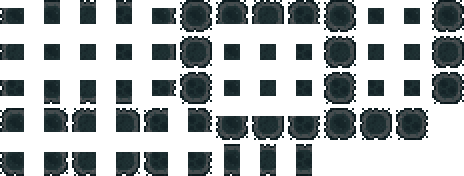
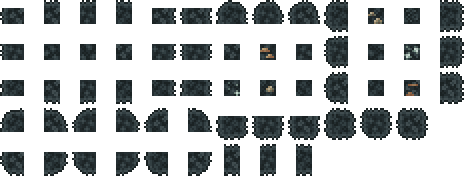
WORLD GEN

diff --git a/Content/MycorrhizaBiome/MycorrhizaEvilBiomeGenerationPass.cs b/Content/MycorrhizaBiome/MycorrhizaEvilBiomeGenerationPass.cs
@@ -1,0 +1,70 @@
+using AltLibrary.Core.Generation;
+using AltLibrary.Common.Systems;
+using Terraria;
+using Terraria.ID;
+using Terraria.ModLoader;
+using Terraria.WorldBuilding;
+using Mycorrhiza.Content.MycorrhizaBiome.Plants;
+using Mycorrhiza.Content.MycorrhizaBiome.BiomeTiles;
+using Mycorrhiza.Content.MycorrhizaBiome.BiomeTiles.Desert;
+using System;
+
+namespace Mycorrhiza.Content.MycorrhizaBiome
+{
+    public class MycorrhizaEvilBiomeGenerationPass : EvilBiomeGenerationPass
+    {
+        public override string ProgressMessage => "Spreading mold...";
+
+        public override void GenerateEvil(int evilBiomePosition, int evilBiomePositionWestBound, int evilBiomePositionEastBound)
+        {
+            double depth = Main.worldSurface + 40.0;
+
+            for (int x = evilBiomePositionWestBound; x < evilBiomePositionEastBound; x++)
+            {
+                depth += WorldGen.genRand.Next(-2, 3);
+                depth = Math.Clamp(depth, Main.worldSurface + 30.0, Main.worldSurface + 50.0);
+
+                bool hitGround = false;
+                int y = (int)GenVars.worldSurfaceLow;
+
+                while (y < depth)
+                {
+                    Tile tile = Main.tile[x, y];
+                    if (tile.HasTile)
+                    {
+                        if (!hitGround && y < Main.worldSurface - 1.0)
+                        {
+                            if (tile.TileType == TileID.Dirt)
+                            {
+                                WorldGen.grassSpread = 0;
+                                WorldGen.SpreadGrass(x, y, TileID.Dirt, ModContent.TileType<MoldyGrassPlaced>(), true);
+                            }
+                        }
+
+                        hitGround = true;
+
+                        if (tile.TileType == TileID.Stone)
+                            tile.TileType = (ushort)ModContent.TileType<PileustoneBlockPlaced>();
+                        else if (tile.TileType == TileID.Sand)
+                            tile.TileType = (ushort)ModContent.TileType<PileusandBlockPlaced>();
+                        else if (tile.TileType == TileID.HardenedSand)
+                            tile.TileType = (ushort)ModContent.TileType<HardenedPileusandBlockPlaced>();
+                        else if (tile.TileType == TileID.Sandstone)
+                            tile.TileType = (ushort)ModContent.TileType<PileusandstoneBlockPlaced>();
+                    }
+                    y++;
+                }
+            }
+
+            int worldSurfaceLow = (int)GenVars.worldSurfaceLow;
+            WorldBiomeGeneration.EvilBiomeGenRanges.Add(new Microsoft.Xna.Framework.Rectangle(
+                evilBiomePositionWestBound,
+                worldSurfaceLow,
+                evilBiomePositionEastBound - evilBiomePositionWestBound,
+                (int)GenVars.worldSurfaceHigh - worldSurfaceLow + 500
+            ));
+        }
+
+        public override void PostGenerateEvil() { }
+    }
+}

diff --git a/Content/MycorrhizaBiome/MycorrhizaBiomeType.cs b/Content/MycorrhizaBiome/MycorrhizaBiomeType.cs
@@ -1,0 +1,37 @@
+using AltLibrary;
+using AltLibrary.Common.AltBiomes;
+using Terraria.ModLoader;
+using Terraria.ID;
+using Mycorrhiza.Content.MycorrhizaBiome.Plants;
+using Mycorrhiza.Content.MycorrhizaBiome.BiomeTiles;
+using Mycorrhiza.Content.MycorrhizaBiome.BiomeTiles.Desert;
+
+namespace Mycorrhiza.Content.MycorrhizaBiome
+{
+    public class MycorrhizaBiomeType : AltBiome
+    {
+        public override string IconSmall => "Mycorrhiza/Content/MycorrhizaBiome/Icons/MycorrhizaIcon_Small";
+        public override string WorldIcon => "Mycorrhiza/Content/MycorrhizaBiome/Icons/MycorrhizaWorldIcon";
+
+        public override void SetStaticDefaults()
+        {
+            BiomeType = AltLibrary.BiomeType.Evil;
+
+            BiomeGrass = ModContent.TileType<MoldyGrassPlaced>();
+
+            AddTileConversion(ModContent.TileType<PileustoneBlockPlaced>(), TileID.Stone);
+            AddTileConversion(ModContent.TileType<PileusandBlockPlaced>(), TileID.Sand);
+            AddTileConversion(ModContent.TileType<HardenedPileusandBlockPlaced>(), TileID.HardenedSand);
+            AddTileConversion(ModContent.TileType<PileusandstoneBlockPlaced>(), TileID.Sandstone);
+
+            AddWallConversions(ModContent.WallType<PileustoneBlockWallPlaced>(),
+                WallID.EbonstoneUnsafe, WallID.CrimstoneUnsafe,
+                WallID.CorruptionUnsafe1, WallID.CorruptionUnsafe2,
+                WallID.CorruptionUnsafe3, WallID.CorruptionUnsafe4,
+                WallID.CrimsonUnsafe1, WallID.CrimsonUnsafe2,
+                WallID.CrimsonUnsafe3, WallID.CrimsonUnsafe4);
+
+            EvilBiomeGenerationPass = new MycorrhizaEvilBiomeGenerationPass();
+        }
+    }
+}

diff --git a/Content/MycorrhizaBiome/HyphumEquipment/ThePuppeteer.cs b/Content/MycorrhizaBiome/HyphumEquipment/ThePuppeteer.cs
@@ -1,28 +1,40 @@
-using Microsoft.Xna.Framework;
-using System;
 using Terraria;
-using Terraria.DataStructures;
 using Terraria.ID;
 using Terraria.ModLoader;
+using Mycorrhiza.Content.MycorrhizaBiome.HyphumEquipment;
 
 namespace Mycorrhiza.Content.MycorrhizaBiome.HyphumEquipment
 {
-	public class ThePuppeteer : ModItem, ILocalizedModType
-	{
-		public new string LocalizationCategory => "Items";
+    public class ThePuppeteer : ModItem
+    {
+        public override void SetStaticDefaults()
+        {
+            Item.ResearchUnlockCount = 1;
+        }
 
-		public override void SetDefaults()
-		{
-			Item.width = 32;
-			Item.height = 32;
-		}
+        public override void SetDefaults()
+        {
+            Item.width = 40;
+            Item.height = 40;
+            Item.useStyle = ItemUseStyleID.Swing;
+            Item.useTime = 8;
+            Item.useAnimation = 8;
+            Item.fishingPole = 22;
+            Item.shootSpeed = 13.5f;
+            Item.shoot = ModContent.ProjectileType<ThePuppeteerBobber>();
+            Item.rare = ItemRarityID.Green;
+            Item.value = Item.sellPrice(gold: 3, silver: 12);
+            Item.UseSound = SoundID.Item1;
+            Item.noMelee = true;
+            Item.autoReuse = false;
+        }
 
         public override void AddRecipes()
         {
-            CreateRecipe().
-                AddIngredient<HyphumBar>(8).
-                AddTile(TileID.Anvils).
-                Register();
+            CreateRecipe()
+                .AddIngredient(ModContent.ItemType<HyphumBar>(), 8)
+                .AddTile(TileID.Anvils)
+                .Register();
         }
     }
 }

diff --git a/Content/MycorrhizaBiome/HyphumEquipment/ThePuppeteerBobber.cs b/Content/MycorrhizaBiome/HyphumEquipment/ThePuppeteerBobber.cs
@@ -1,0 +1,26 @@
+using Terraria;
+using Terraria.ID;
+using Terraria.ModLoader;
+using Microsoft.Xna.Framework;
+
+namespace Mycorrhiza.Content.MycorrhizaBiome.HyphumEquipment
+{
+    public class ThePuppeteerBobber : ModProjectile
+    {
+        public override void SetDefaults()
+        {
+            Projectile.CloneDefaults(ProjectileID.BobberWooden);
+            Projectile.width = 14;
+            Projectile.height = 14;
+            Projectile.aiStyle = 61;
+            Projectile.lavaWet = true;
+            DrawOriginOffsetY = -8;
+        }
+
+        public override void ModifyFishingLine(ref Vector2 lineOriginOffset, ref Color lineColor)
+        {
+            lineOriginOffset = new Vector2(42f, -32f);
+            lineColor = new Color(166, 201, 207);
+        }
+    }
+}

diff --git a/Content/MycorrhizaBiome/BiomeTiles/PileustoneBrickWall.cs b/Content/MycorrhizaBiome/BiomeTiles/PileustoneBrickWall.cs
@@ -1,0 +1,26 @@
+using Terraria.ID;
+using Terraria.ModLoader;
+using System;
+
+namespace Mycorrhiza.Content.MycorrhizaBiome.BiomeTiles
+{
+    public class PileustoneBrickWall : ModItem, ILocalizedModType
+    {
+        public new string LocalizationCategory => "Items";
+        public override void SetStaticDefaults()
+        {
+            Item.ResearchUnlockCount = 400;
+        }
+
+        public override void SetDefaults() => Item.DefaultToPlaceableWall(ModContent.WallType<PileustoneBrickWallPlaced>());
+
+        public override void AddRecipes()
+        {
+            CreateRecipe(4).
+                AddIngredient<PileustoneBrick>().
+                AddTile(TileID.WorkBenches).
+                DisableDecraft().
+                Register();
+        }
+    }
+}

diff --git a/Content/MycorrhizaBiome/BiomeTiles/PileustoneBrickWallPlaced.cs b/Content/MycorrhizaBiome/BiomeTiles/PileustoneBrickWallPlaced.cs
@@ -1,0 +1,27 @@
+using Microsoft.Xna.Framework;
+using System;
+using Terraria;
+using Terraria.ID;
+using Terraria.ModLoader;
+
+namespace Mycorrhiza.Content.MycorrhizaBiome.BiomeTiles
+{
+    public class PileustoneBrickWallPlaced : ModWall
+    {
+        public override void SetStaticDefaults()
+        {
+            Main.wallHouse[Type] = true;
+
+            VanillaFallbackOnModDeletion = WallID.DiamondGemspark;
+
+            AddMapEntry(new Color(150, 150, 150));
+
+            DustType = ModContent.DustType<Dusts.MycoStoneDust>();
+        }
+
+        public override void NumDust(int i, int j, bool fail, ref int num)
+        {
+            num = fail ? 1 : 3;
+        }
+    }
+}

diff --git a/obj/Release/net8.0/Mycorrhiza.AssemblyInfo.cs b/obj/Release/net8.0/Mycorrhiza.AssemblyInfo.cs
@@ -14,7 +14,7 @@ using System.Reflection;
 [assembly: System.Reflection.AssemblyCompanyAttribute("Mycorrhiza")]
 [assembly: System.Reflection.AssemblyConfigurationAttribute("Release")]
 [assembly: System.Reflection.AssemblyFileVersionAttribute("1.0.0.0")]
-[assembly: System.Reflection.AssemblyInformationalVersionAttribute("1.0.0+6cf004490b9164ae6aad129265e23719bb8a904d")]
+[assembly: System.Reflection.AssemblyInformationalVersionAttribute("1.0.0+7bea516db779a6c7ee6c3f099f3c81bc70dac32e")]
 [assembly: System.Reflection.AssemblyProductAttribute("Mycorrhiza")]
 [assembly: System.Reflection.AssemblyTitleAttribute("Mycorrhiza")]
 [assembly: System.Reflection.AssemblyVersionAttribute("1.0.0.0")]

diff --git a/obj/Debug/net8.0/Mycorrhiza.AssemblyInfo.cs b/obj/Debug/net8.0/Mycorrhiza.AssemblyInfo.cs
@@ -14,7 +14,7 @@ using System.Reflection;
 [assembly: System.Reflection.AssemblyCompanyAttribute("Mycorrhiza")]
 [assembly: System.Reflection.AssemblyConfigurationAttribute("Debug")]
 [assembly: System.Reflection.AssemblyFileVersionAttribute("1.0.0.0")]
-[assembly: System.Reflection.AssemblyInformationalVersionAttribute("1.0.0+6cf004490b9164ae6aad129265e23719bb8a904d")]
+[assembly: System.Reflection.AssemblyInformationalVersionAttribute("1.0.0+7bea516db779a6c7ee6c3f099f3c81bc70dac32e")]
 [assembly: System.Reflection.AssemblyProductAttribute("Mycorrhiza")]
 [assembly: System.Reflection.AssemblyTitleAttribute("Mycorrhiza")]
 [assembly: System.Reflection.AssemblyVersionAttribute("1.0.0.0")]

diff --git a/Content/MycorrhizaBiome/BiomeTiles/PileustoneBrick.cs b/Content/MycorrhizaBiome/BiomeTiles/PileustoneBrick.cs
@@ -20,6 +20,11 @@ namespace Mycorrhiza.Content.MycorrhizaBiome.BiomeTiles
                 AddIngredient<PileustoneBlock>(2).
                 AddTile(TileID.Furnaces).
                 Register();
+
+            CreateRecipe().
+                AddIngredient<PileustoneBrickWall>(4).
+                AddTile(TileID.WorkBenches).
+                Register();
         }
 
     }
